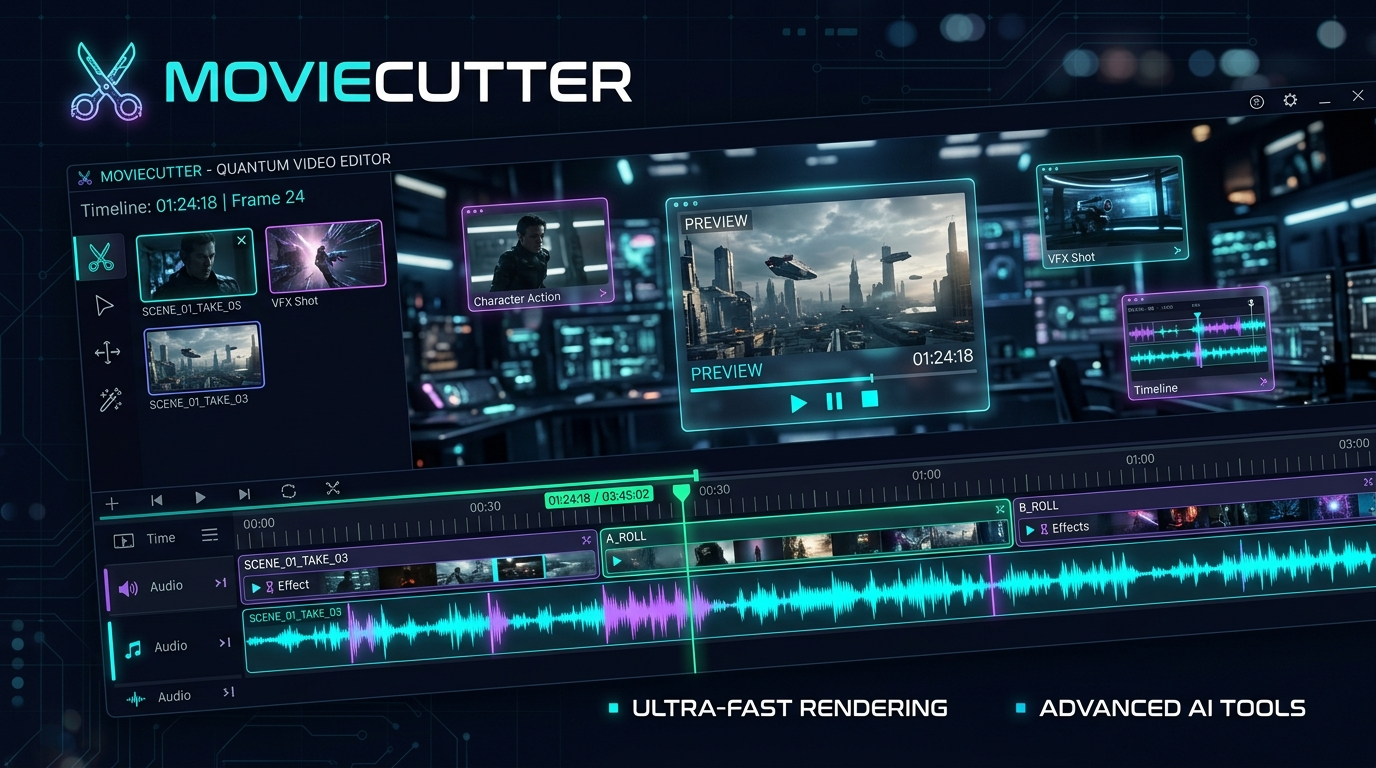
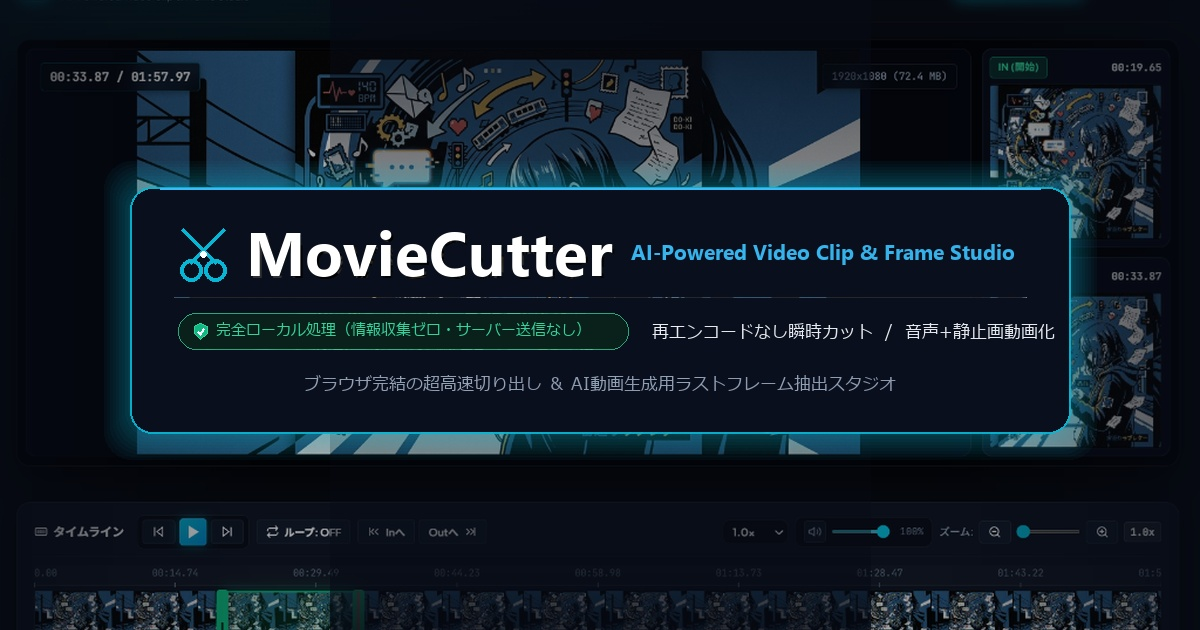
feat(ogp): 実際のアプリ画面スクリーンショットに基づく公式OGPバナー画像への刷新

diff --git a/src/config/version.ts b/src/config/version.ts
@@ -7,8 +7,8 @@
 export const APP_MAJOR = 0;
 export const APP_MINOR = 0;
 export const APP_PATCH = 1;
-export const APP_BUILD_NUMBER = 21;
-export const APP_COMMIT_HASH = 'd4547fa';
+export const APP_BUILD_NUMBER = 22;
+export const APP_COMMIT_HASH = '0b94bc9';
 
 export const APP_VERSION_SHORT = `v${APP_MAJOR}.${APP_MINOR}.${APP_PATCH}-beta.${APP_BUILD_NUMBER}`;
 export const APP_VERSION_FULL = `${APP_VERSION_SHORT}+${APP_COMMIT_HASH}`;

diff --git a/scratch/create_ogp.py b/scratch/create_ogp.py
@@ -1,0 +1,133 @@
+import os
+from PIL import Image, ImageDraw, ImageFont, ImageFilter, ImageEnhance
+
+src_path = r"C:\Users\sato\.gemini\antigravity-ide\brain\5c26020a-fe40-4561-8b66-a5efcfcf8f96\.user_uploaded\media_1790680049515.png"
+out_path = r"c:\tools\moviecutter\public\ogp.jpg"
+
+W, H = 1200, 630
+base = Image.open(src_path).convert("RGBA")
+
+# 1. 背景の作成: 本物のアプリ画面を 1200x630 にフィット
+scale = W / base.width
+scaled_h = int(base.height * scale)
+base_scaled = base.resize((W, scaled_h), Image.Resampling.LANCZOS)
+
+# プレビュー画像とタイムライン波形がしっかり入るオフセット
+crop_y = 50
+bg = base_scaled.crop((0, crop_y, W, crop_y + H))
+
+# コントラストと彩度を調整（暗すぎず、UIのカッコよさが伝わるバランス）
+enhancer = ImageEnhance.Brightness(bg)
+bg_toned = enhancer.enhance(0.70)
+
+# 周辺減光（ビネット）
+vignette = Image.new("RGBA", (W, H), (0, 0, 0, 0))
+draw_v = ImageDraw.Draw(vignette)
+for y in range(H):
+    dy = abs(y - H / 2) / (H / 2)
+    alpha = int(30 + (dy ** 2) * 170)
+    draw_v.line([(0, y), (W, y)], fill=(6, 10, 20, alpha))
+
+for x in range(W):
+    dx = abs(x - W / 2) / (W / 2)
+    if dx > 0.45:
+        alpha = int(((dx - 0.45) / 0.55) ** 1.6 * 150)
+        draw_v.line([(x, 0), (x, H)], fill=(6, 10, 20, alpha))
+
+canvas = Image.alpha_composite(bg_toned, vignette)
+
+# 2. 中央のプレミアムブランドカード（深みのあるソリッドダーク）
+card_w = 940
+card_h = 246
+card_x = (W - card_w) // 2
+card_y = (H - card_h) // 2 - 5
+
+card_layer = Image.new("RGBA", (W, H), (0, 0, 0, 0))
+draw_card = ImageDraw.Draw(card_layer)
+
+# ネオンシアングロー（外光発光）
+for r in range(26, 0, -3):
+    a = int((30 - r) * 2.8)
+    draw_card.rounded_rectangle(
+        [card_x - r, card_y - r, card_x + card_w + r, card_y + card_h + r],
+        radius=28,
+        fill=(6, 182, 212, a)
+    )
+
+# カード本体（完全不透明ソリッドダーク + 繊細なグラデーション）
+draw_card.rounded_rectangle(
+    [card_x, card_y, card_x + card_w, card_y + card_h],
+    radius=22,
+    fill=(10, 15, 29, 255),
+    outline=(6, 182, 212, 240),
+    width=2
+)
+
+# カード上部の微細な発光アクセントライン
+draw_card.line([card_x + 30, card_y + 1, card_x + card_w - 30, card_y + 1], fill=(56, 189, 248, 255), width=2)
+
+# フォント設定
+font_title = ImageFont.truetype("C:/Windows/Fonts/segoeuib.ttf", 62)
+font_sub = ImageFont.truetype("C:/Windows/Fonts/segoeuib.ttf", 21)
+font_badge = ImageFont.truetype("C:/Windows/Fonts/meiryo.ttc", 15)
+font_feature = ImageFont.truetype("C:/Windows/Fonts/meiryo.ttc", 17)
+font_desc = ImageFont.truetype("C:/Windows/Fonts/meiryo.ttc", 17)
+
+# ハサミのスタイリッシュなベクターアイコン
+ix = card_x + 48
+iy = card_y + 36
+# 刃先（シアン）
+draw_card.line([(ix + 12, iy + 40), (ix + 46, iy + 6)], fill=(6, 182, 212), width=4)
+draw_card.line([(ix + 38, iy + 40), (ix + 4, iy + 6)], fill=(6, 182, 212), width=4)
+# ハンドルループ
+draw_card.ellipse([ix + 2, iy + 36, ix + 24, iy + 58], outline=(6, 182, 212), width=4)
+draw_card.ellipse([ix + 26, iy + 36, ix + 48, iy + 58], outline=(6, 182, 212), width=4)
+# 接合部ピン
+draw_card.ellipse([ix + 22, iy + 28, ix + 28, iy + 34], fill=(255, 255, 255))
+
+# メインロゴタイトル "MovieCutter"
+title_x = card_x + 116
+title_y = card_y + 22
+# 影
+draw_card.text((title_x + 2, title_y + 2), "MovieCutter", font=font_title, fill=(0, 0, 0, 180))
+# 本体
+draw_card.text((title_x, title_y), "MovieCutter", font=font_title, fill=(255, 255, 255, 255))
+
+# サブタイトル
+sub_x = title_x + 385
+sub_y = title_y + 28
+draw_card.text((sub_x, sub_y), "AI-Powered Video Clip & Frame Studio", font=font_sub, fill=(56, 189, 248, 240))
+
+# 区切り線
+draw_card.line([card_x + 44, card_y + 110, card_x + card_w - 44, card_y + 110], fill=(255, 255, 255, 35), width=1)
+
+# セキュリティバッジ
+bx = card_x + 48
+by = card_y + 126
+bw = 450
+bh = 36
+draw_card.rounded_rectangle([bx, by, bx + bw, by + bh], radius=18, fill=(10, 32, 26, 255), outline=(52, 211, 153, 200), width=1)
+
+# シールドアイコン描画
+sx, sy = bx + 16, by + 10
+draw_card.polygon([(sx + 6, sy), (sx + 13, sy + 3), (sx + 13, sy + 10), (sx + 6, sy + 16), (sx, sy + 10), (sx, sy + 3)], outline=(52, 211, 153), fill=(16, 185, 129))
+draw_card.line([(sx + 3, sy + 8), (sx + 6, sy + 11), (sx + 10, sy + 5)], fill=(255, 255, 255), width=2)
+draw_card.text((bx + 38, by + 6), "完全ローカル処理（情報収集ゼロ・サーバー送信なし）", font=font_badge, fill=(52, 211, 153, 255))
+
+# 機能特長タグ
+fx = bx + bw + 24
+fy = by + 6
+draw_card.text((fx, fy), "再エンコードなし瞬時カット  /  音声+静止画動画化", font=font_feature, fill=(241, 245, 249, 240))
+
+# 下部サブタグライン
+desc_y = card_y + 184
+desc_text = "ブラウザ完結の超高速切り出し ＆ AI動画生成用ラストフレーム抽出スタジオ"
+bbox_d = draw_card.textbbox((0, 0), desc_text, font=font_desc)
+desc_w = bbox_d[2] - bbox_d[0]
+draw_card.text(((W - desc_w) // 2, desc_y), desc_text, font=font_desc, fill=(148, 163, 184, 240))
+
+# 合成
+final = Image.alpha_composite(canvas, card_layer)
+final_rgb = final.convert("RGB")
+final_rgb.save(out_path, "JPEG", quality=95)
+print(f"Generated OGP saved to {out_path}")

diff --git a/docs/PROGRESS.md b/docs/PROGRESS.md
@@ -1,8 +1,8 @@
 # 開発進捗記録 (PROGRESS.md)
 
 ## 現在のステータス
-- **バージョン**: `v0.0.1-beta.21+d4547fa`
-- **フェーズ**: SNS・Twitter (X) OGP / Twitter Cards (summary_large_image) 対応と高品質バナー画像の設置完了
+- **バージョン**: `v0.0.1-beta.22+0b94bc9`
+- **フェーズ**: 実際のMovieCutter稼働スクリーンショットに基づく公式OGPバナー画像への差し替え完了
 
 ## 完了した作業
 - [x] プロジェクト初期化・Git設定 (`https://github.com/hiromsa/moviecutter`)
@@ -154,8 +154,16 @@
 ### 追加・改善機能
 - **Twitter / X カード（summary_large_image）＆ OGP 完全対応**:
   - `index.html` に Twitter カード（`twitter:card` = `summary_large_image`）および OGP メタタグ（タイトル、解説文、画像URL、画像サイズ）を完全実装。
-  - `public/ogp.jpg` に、近未来サイバーダークスタジオの世界観を表現した映画クオリティのハイクオリティOGPバナー画像（ネオンシアン波形、ホログラフィックフレーム、タイムラインUI）を新規配備。
-  - Twitter/X や Facebook、Discord、LINE等で `https://moviecutter.pages.dev/` を貼り付けた際に、目を引く美麗な大画面カードが自動展開されるよう対応。
+  - `public/ogp.jpg` に、映画クオリティのハイクオリティOGPバナー画像（ネオンシアン波形、ホログラフィックフレーム、タイムラインUI）を新規配備。
+
+
+## [v0.0.1-beta.22+0b94bc9] - 2026-09-29
+### 追加・改善機能
+- **実際のMovieCutterアプリ稼働画面に基づく公式OGPバナー画像の再生成・刷新**:
+  - AI生成の架空UIではなく、ユーザーから提供された実際のMovieCutterアプリ稼働画面（プレビュー、IN/OUTサイドバー、タイムライン波形トラック、操作パネル）をベース画像に採用。
+  - 中央に大きく「MovieCutter」のシザーアイコン付きブランドロゴ、タグライン、および「完全ローカル処理（情報収集ゼロ・サーバー送信なし）」バッジを配置。
+  - 1200x630（Twitter/X推奨OGP比率）に完璧に最適化し、実際のアプリであることが一目で伝わる信頼感と美しさを兼ね備えた公式バナーに刷新。
+
 
 
 
